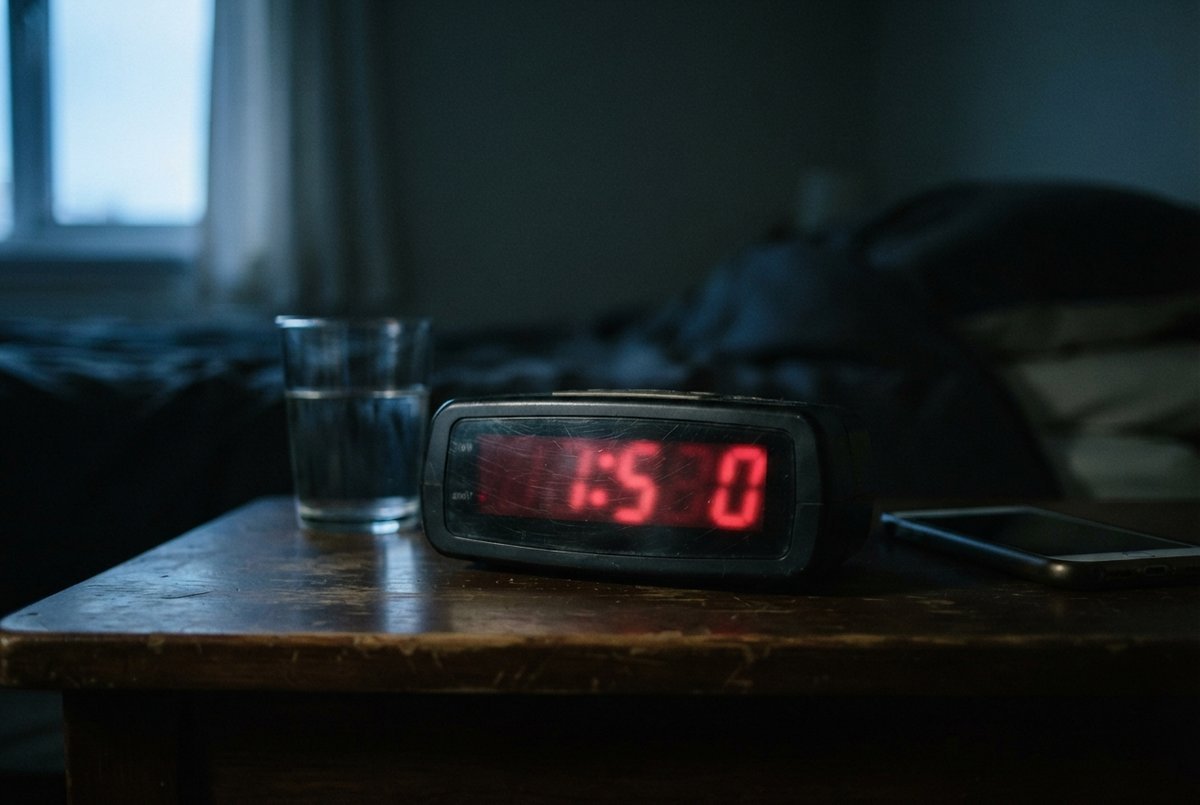
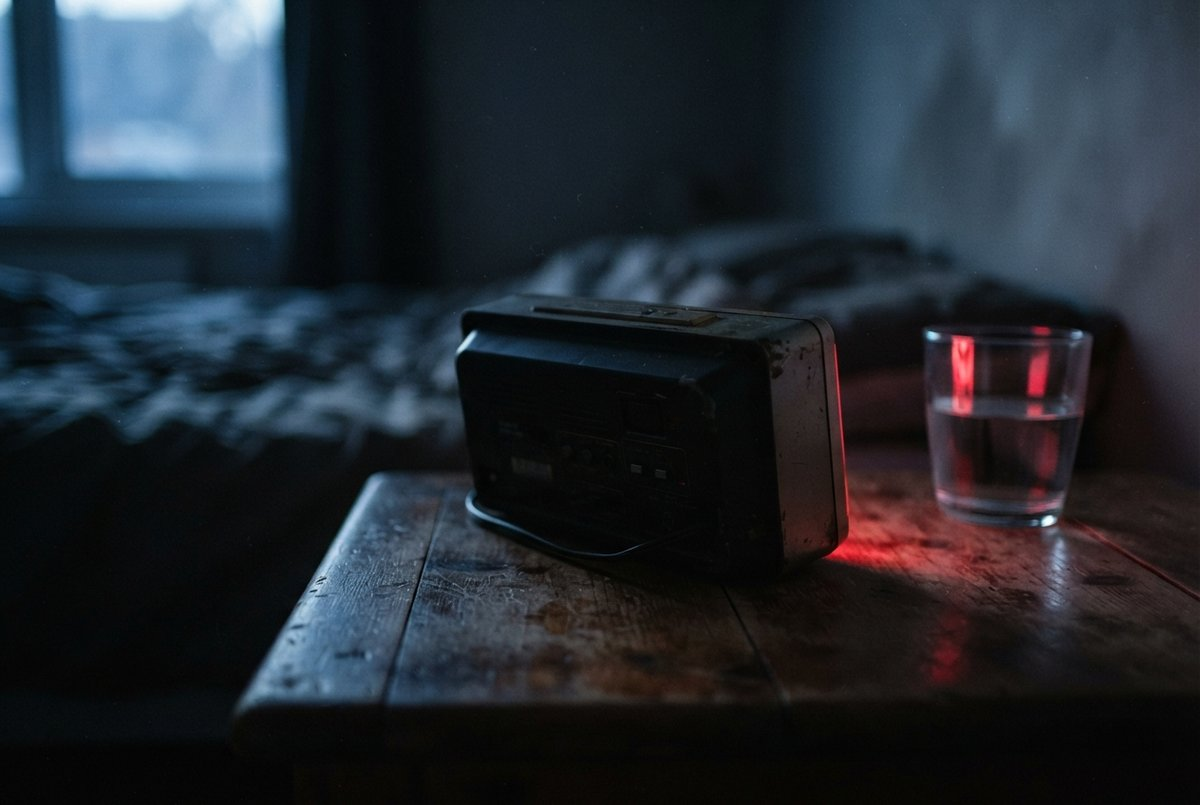
Activité 108 · quatre images refaites après la relecture avec leur énoncé
`node build/contexte_images.js module-n4-etablissement` met la phrase à
côté de la photo : quatre des dix-sept fautaient, aucune sur la règle 4.

- repondeur affichait PLAY / STOP / VOLUME, reveil-avant-aube un
  « 1:520 » de charabia. La négation « aucun texte lisible » ne tient pas
  devant un appareil dont le modèle sait qu'il porte des inscriptions :
  les deux prompts tournent maintenant la face avant hors champ, et
  c'est la lueur rouge sur le bois qui dit que le réveil est allumé.
- clavier et signature étaient des gros plans de mains. Les deux se
  réparent en retirant la personne et en gardant la trace du geste : le
  clavier seul sur la table, la feuille déjà signée, stylo à côté.

Quatre reprises par la route Google directe, 0,13 $.

diff --git a/build/contenu/module-n4-etablissement/gen_images.py b/build/contenu/module-n4-etablissement/gen_images.py
@@ -102,9 +102,11 @@ IMAGES = [
   "d'une fenêtre haute."),
  ('reveil-avant-aube', 'images', P_EX, S_OBJET +
   "Un réveille-matin numérique posé sur une table de chevet en bois, dans "
-  "une chambre encore sombre. L'écran émet une lueur rouge diffuse, sans "
-  "chiffre déchiffrable. Un verre d'eau et un téléphone posé à plat à côté. "
-  "Faible lumière bleutée par la fenêtre."),
+  "une chambre encore sombre, vu de trois quarts arrière et de très près, "
+  "de sorte que l'afficheur n'est PAS visible : seule sa lueur rouge se "
+  "reflète sur le bois de la table et sur un verre d'eau. Aucun chiffre, "
+  "aucun segment lumineux, aucune horloge lisible dans le cadre. Faible "
+  "lumière bleutée par la fenêtre."),
  ('enfant-malade-lit', 'images', P_EX, S_GENS +
   "Un jeune enfant couché sous une couette épaisse, vu de dos et de haut, "
   "seuls les cheveux et une épaule dépassent. Un thermomètre et un verre "
@@ -127,13 +129,17 @@ IMAGES = [
   "rouge clignote sur le côté du socle. L'écran est éteint. Pièce sombre en "
   "arrière-plan, une seule source de lumière chaude."),
  ('repondeur', 'vocab', P_VOC, S_OBJET +
-  "Un vieux répondeur téléphonique en plastique beige, posé de côté sur une "
-  "étagère de bois, avec deux gros boutons ronds et un petit haut-parleur "
-  "grillagé. Un fil torsadé descend derrière l'étagère."),
+  "Un vieux répondeur téléphonique en plastique beige, posé sur une étagère "
+  "de bois et vu de trois quarts arrière, en plongée légère : le dessus et "
+  "le flanc de l'appareil occupent le cadre, sa face avant est tournée hors "
+  "champ. Deux gros boutons ronds parfaitement lisses, SANS aucune "
+  "inscription, sans aucune étiquette, sans aucun mot gravé ni imprimé nulle "
+  "part sur le boîtier. Un fil torsadé descend derrière l'étagère."),
  ('clavier', 'vocab', P_VOC, S_OBJET +
   "Gros plan vu du dessus sur le clavier à touches carrées d'un téléphone de "
-  "bureau noir, un doigt sur le point d'appuyer sur une touche du haut. Les "
-  "touches sont nettes mais leurs caractères sont effacés par l'usage."),
+  "bureau noir posé sur une table. Aucune main, aucun doigt, aucune personne "
+  "dans le cadre. Les touches sont nettes mais leurs caractères sont effacés "
+  "par l'usage. Le combiné repose sur son socle, en haut du cadre."),
  ('ligne', 'vocab', P_VOC, S_OBJET +
   "Un fil de téléphone gris branché dans une prise murale beige, près d'une "
   "plinthe de bois, dans un couloir. Le fil monte hors du cadre en s'enroulant "
@@ -159,10 +165,11 @@ IMAGES = [
   "en cinq ou six lignes grises floues, avec un espace plus grand en bas et "
   "un trait de signature illisible. Un stylo bleu couché en travers."),
  ('signature', 'vocab', P_VOC, S_PAPIER +
-  "Gros plan sur une main qui signe un document au bas d'une page, stylo "
-  "bille bleu, vue de trois quarts au-dessus de l'épaule. La signature est "
-  "une boucle illisible ; le reste de la page ne montre que des lignes "
-  "grises."),
+  "Le bas d'une feuille déjà signée, posée sur un bureau de bois : une ligne "
+  "horizontale et, juste au-dessus, une boucle d'encre bleue parfaitement "
+  "illisible. Un stylo bille bleu couché à côté, capuchon retiré. Aucune "
+  "main, aucun bras, aucune personne dans le cadre. Le reste de la page ne "
+  "montre que des lignes grises floues."),
  ('copie', 'vocab', P_VOC, S_LIEU +
   "Un photocopieur de bureau ouvert, couvercle relevé, une feuille blanche "
   "posée sur la vitre. Lumière verte de balayage sur le côté. Bac de sortie "
